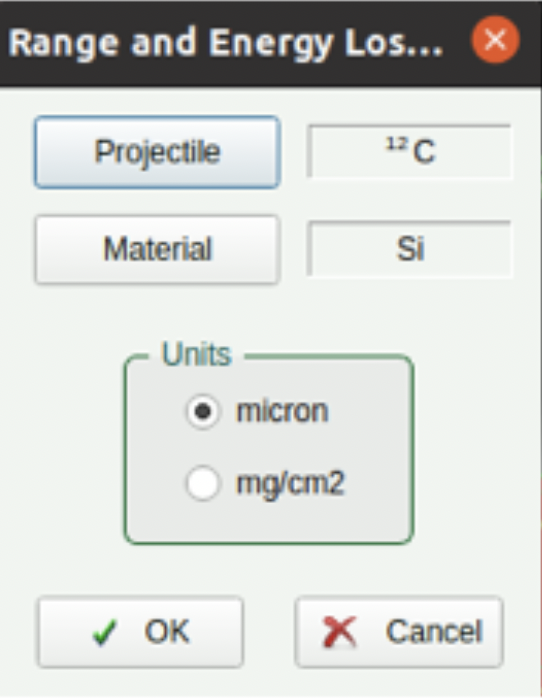
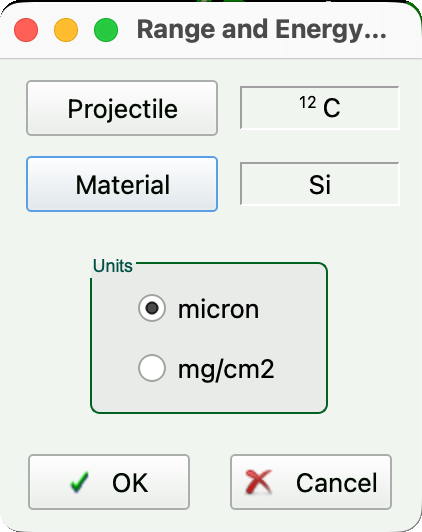
Update LISE particle and material screenshot

diff --git a/chapt1/energy loss/LISE_eloss_calculation.html b/chapt1/energy loss/LISE_eloss_calculation.html
@@ -280,7 +280,7 @@
     figure img { display: block; max-width: 100%; height: auto; margin: 0 auto; }
     figure img[src$=".svg"] { width: 100%; }
     figcaption { margin-top: .45rem; color: var(--muted); font-size: .88rem; }
-    .narrow-figure { max-width: 380px; }
+    .narrow-figure { max-width: 190px; }
     .material-figure { max-width: 668px; }
     .language-choice { display: none; gap: .6rem; align-items: center; flex-wrap: wrap; margin: 1.2rem 0; }
     .language-choice button { font: inherit; font-size: .9rem; padding: .3rem .8rem; border: 1px solid var(--line); border-radius: 4px; background: #fff; cursor: pointer; }
